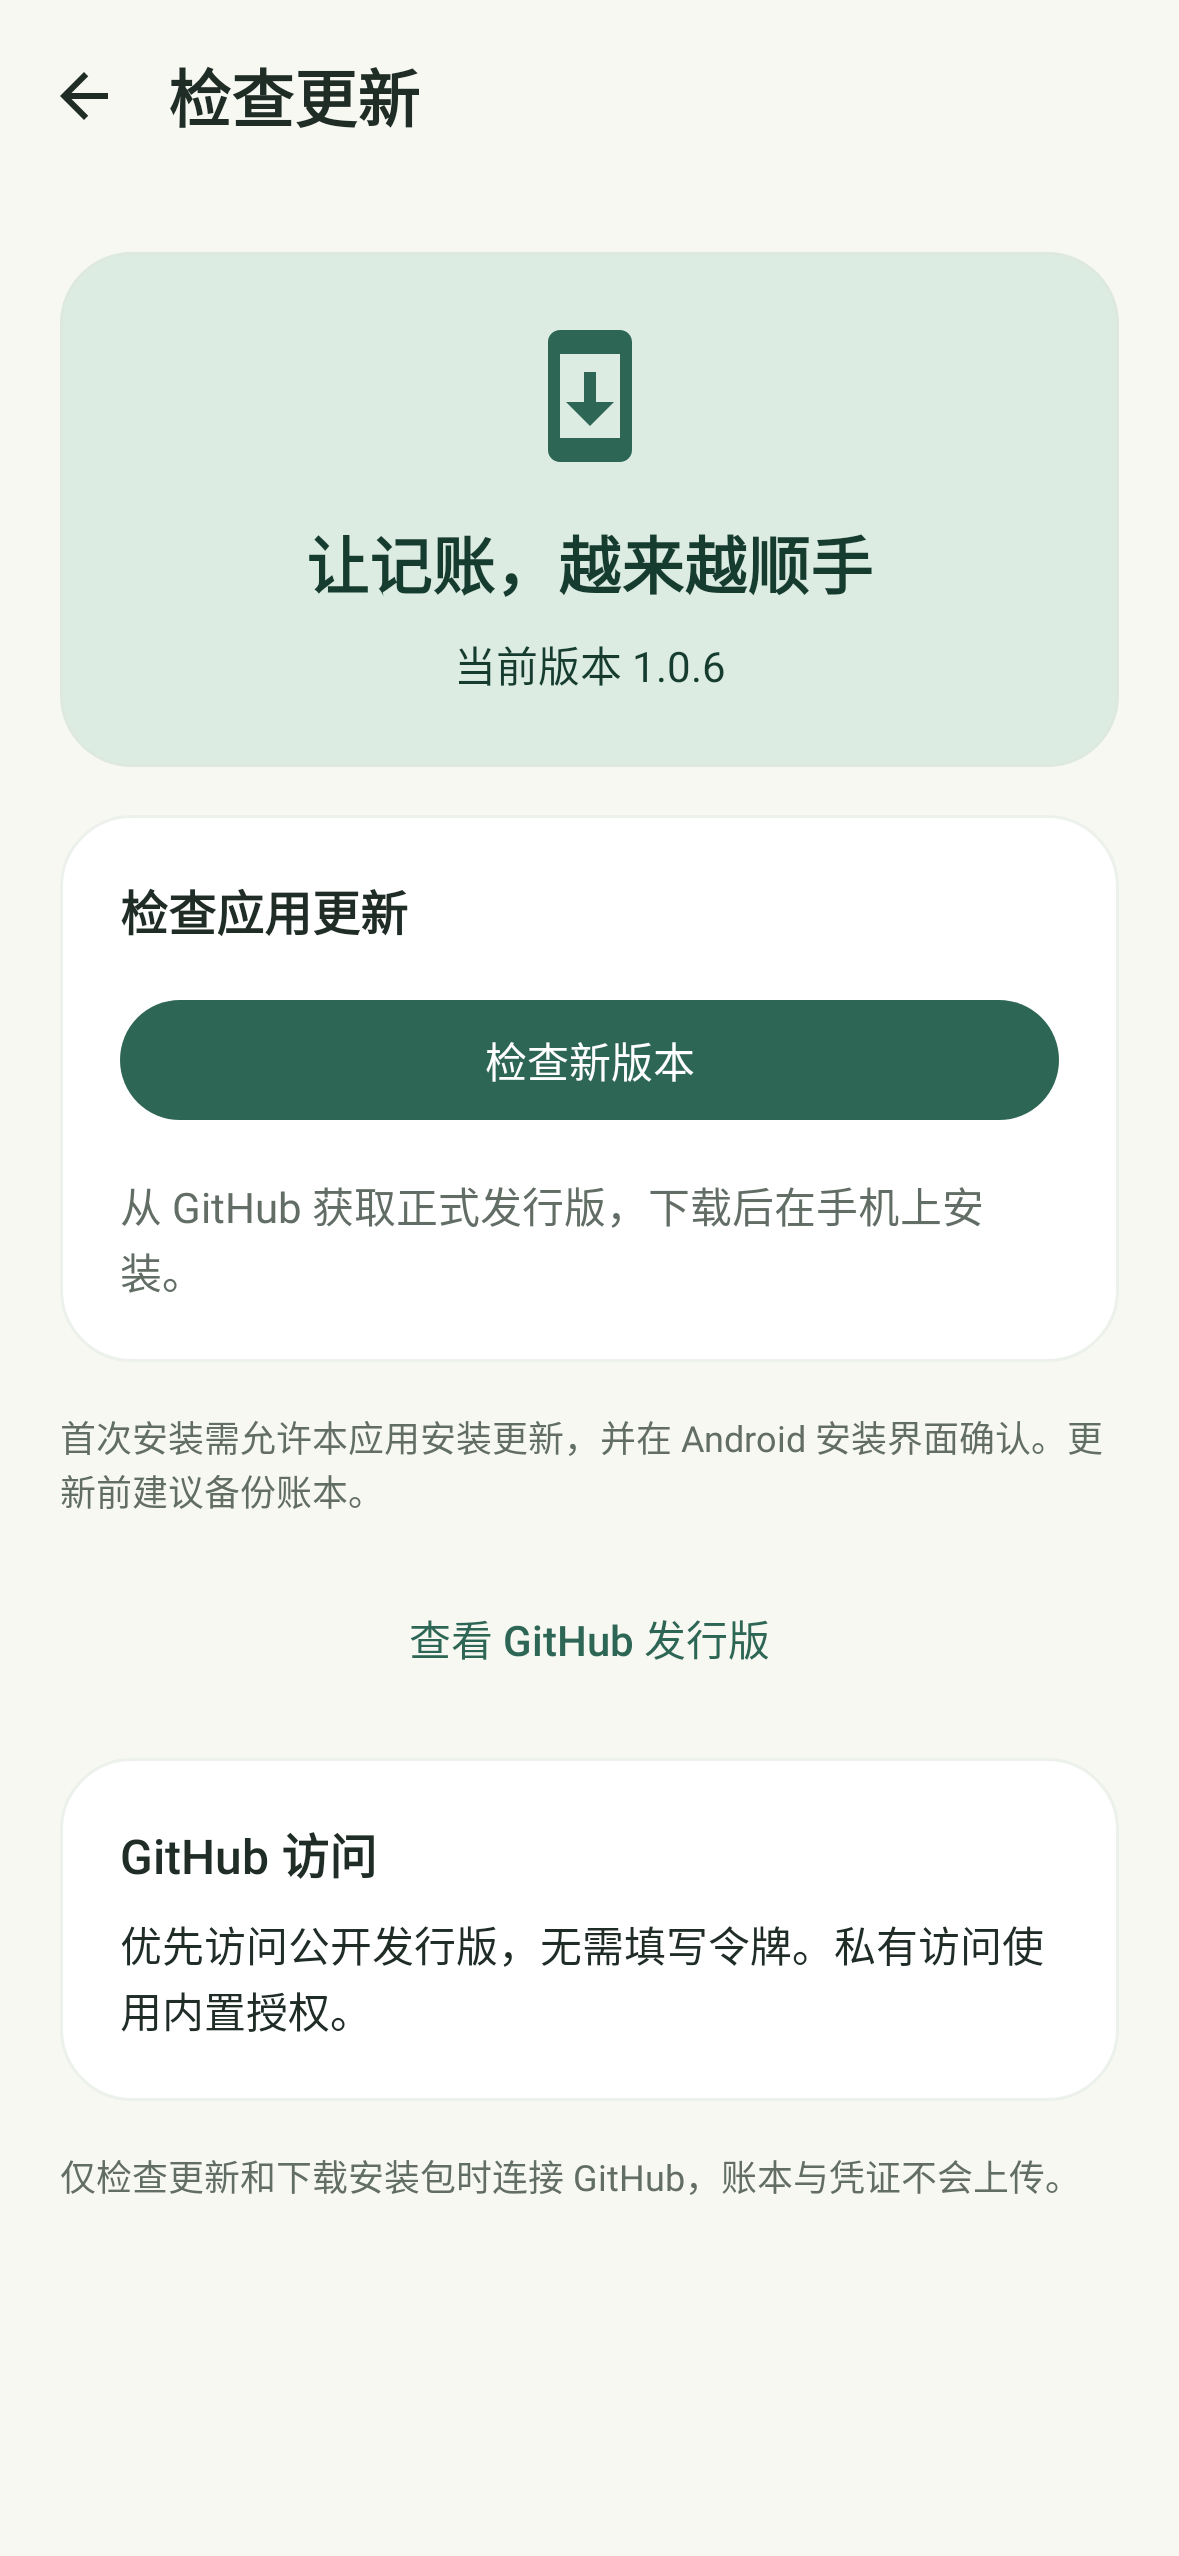
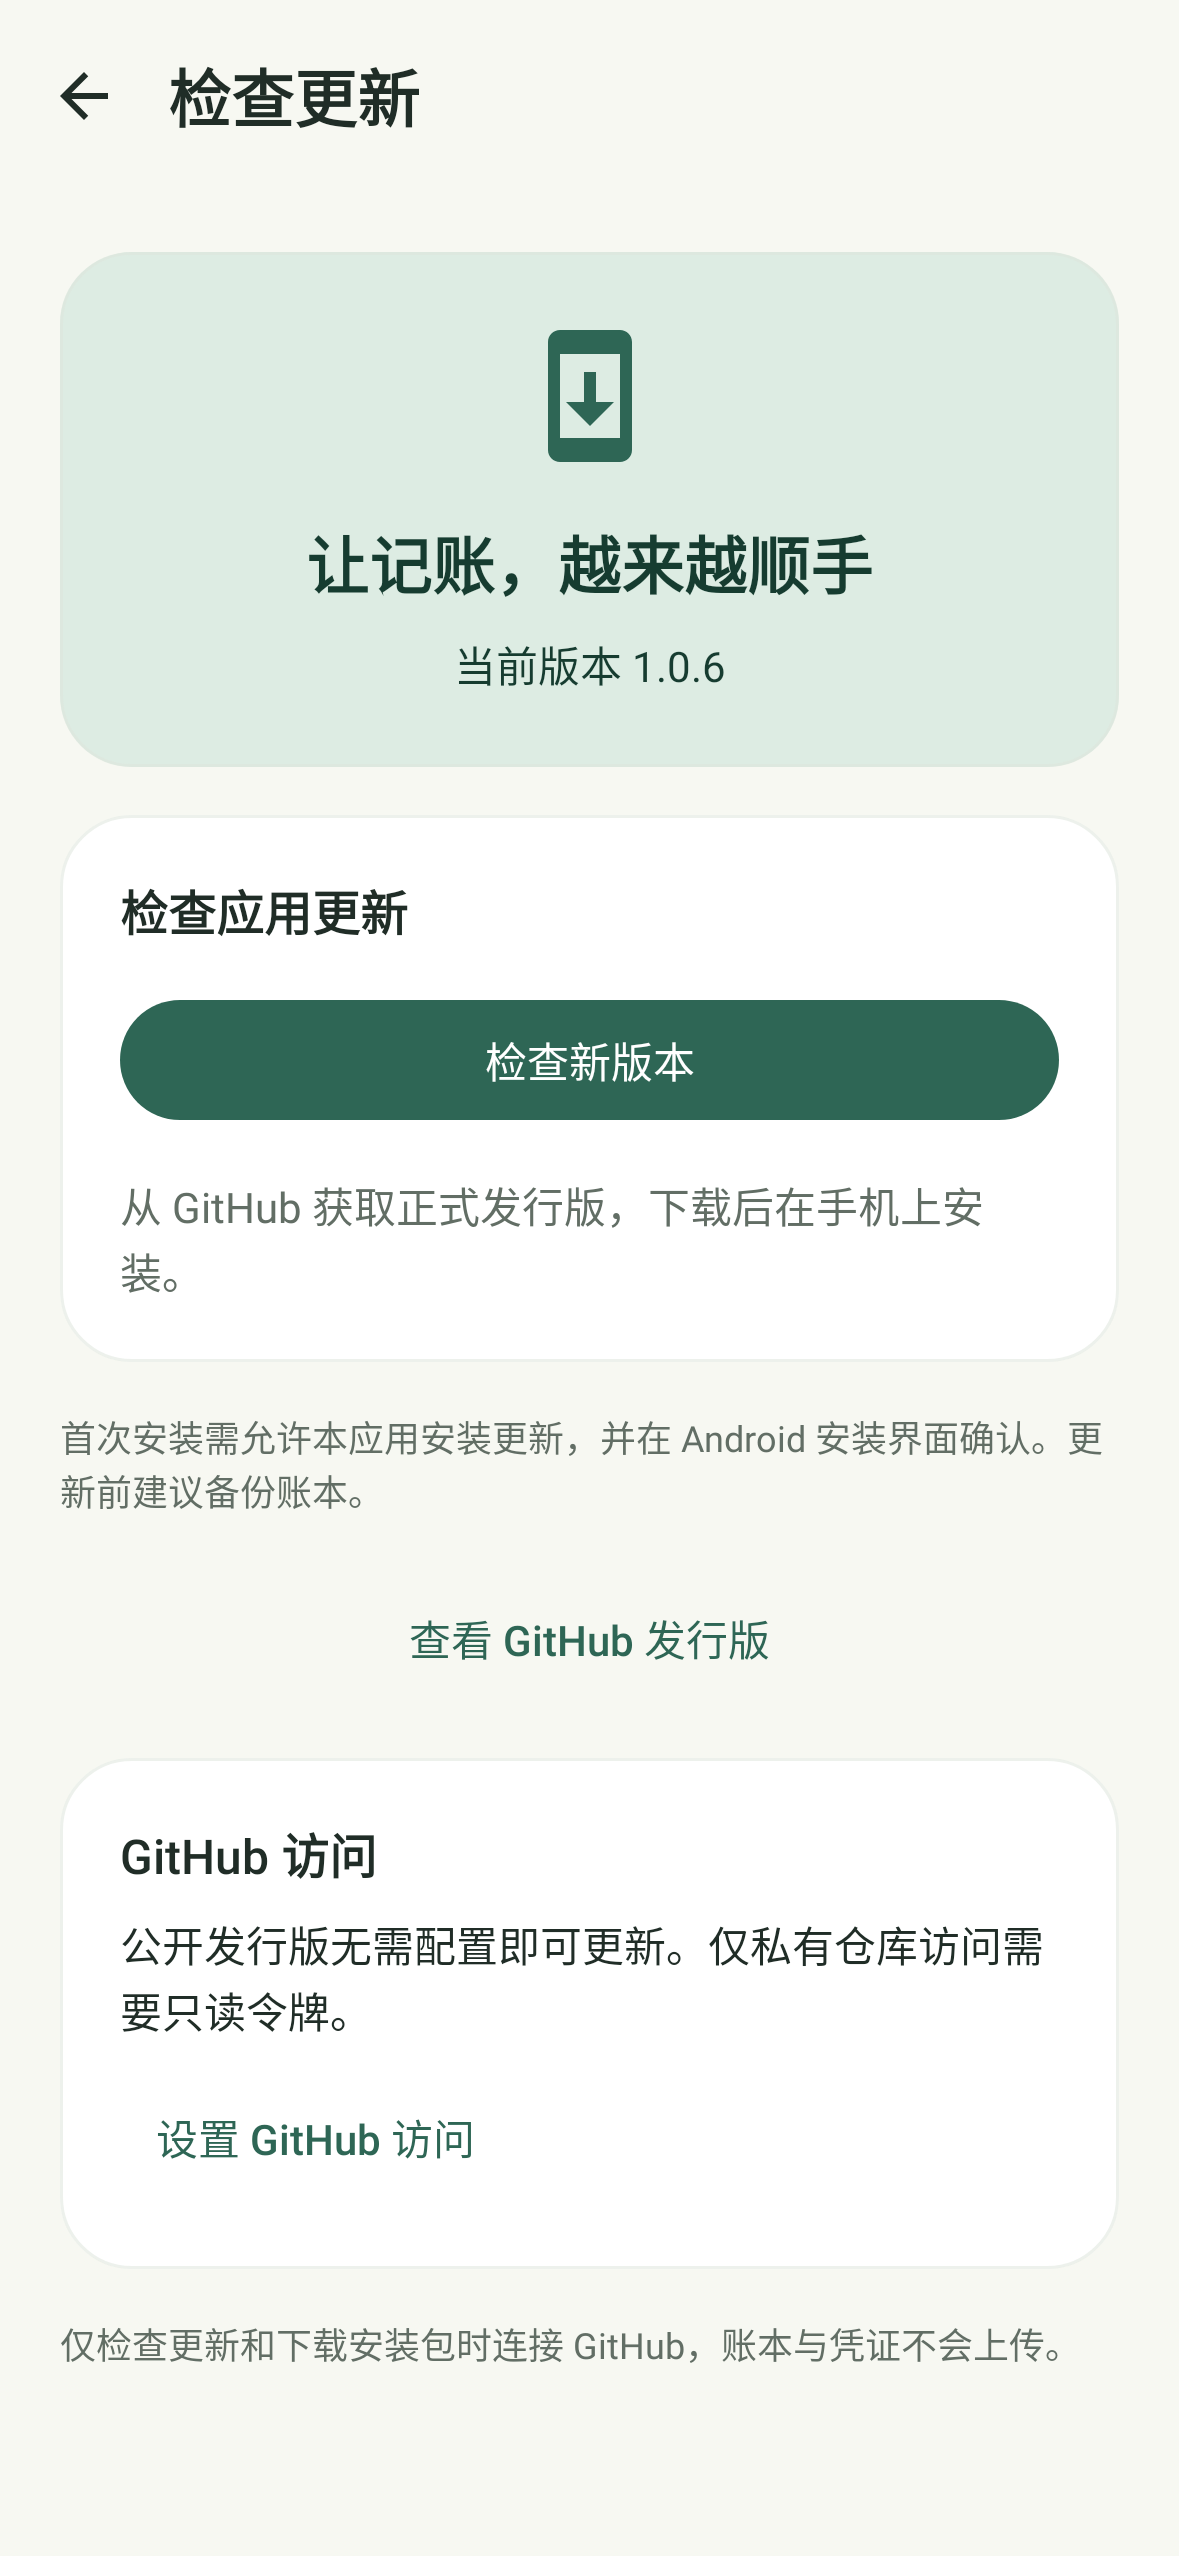
Deliver public updates without bundling credentials

diff --git a/docs/UPDATE-1.0.6.md b/docs/UPDATE-1.0.6.md
@@ -7,7 +7,7 @@
 ## 修复
 
 - 检查版本和下载安装包都优先匿名访问 GitHub，不读取也不发送内置或本机令牌。即使旧令牌失效，公开更新也能正常使用。
-- 仅在本仓库 API 的匿名请求返回 401、403 或 404，且存在备用凭据时，尝试一次带授权的请求。继续保留所有者要求的内置只读授权，供私有访问备用。
+- 仅在本仓库 API 的匿名请求返回 401、403 或 404，且用户有本机访问配置时，尝试一次带授权的请求。本次公开发行包不内置令牌，公开更新无需配置。
 - 附件重定向始终不携带授权。没有凭据时不重复请求，不向不受信任的域名发送凭据。
 - 不再要求先配置访问设置才能检查公开更新。访问卡片明确说明公开发行版无需令牌。
 - 用户主动配置令牌时仍直接核验该令牌，不以匿名成功代替令牌核验。
@@ -23,6 +23,8 @@
 1.0.6 / versionCode 7，继续使用 `com.zhuangxiu.ledger`、Room v1 和 1.0.3 起使用的同一签名密钥。可覆盖本次发布的 1.0.3、1.0.4、1.0.5。旧版若被 401 阻塞，可先手动安装本次修正版，再使用“我的 → 检查更新”。
 
 Android 最终安装仍需要用户在系统安装界面确认。此次未执行真机安装测试。
+
+本次公开发行包的构建配置与 DEX 均需通过令牌排除检查；发布历史不包含被拦截的含令牌 1.0.6 安装包。
 
 ## 回归检查
 
